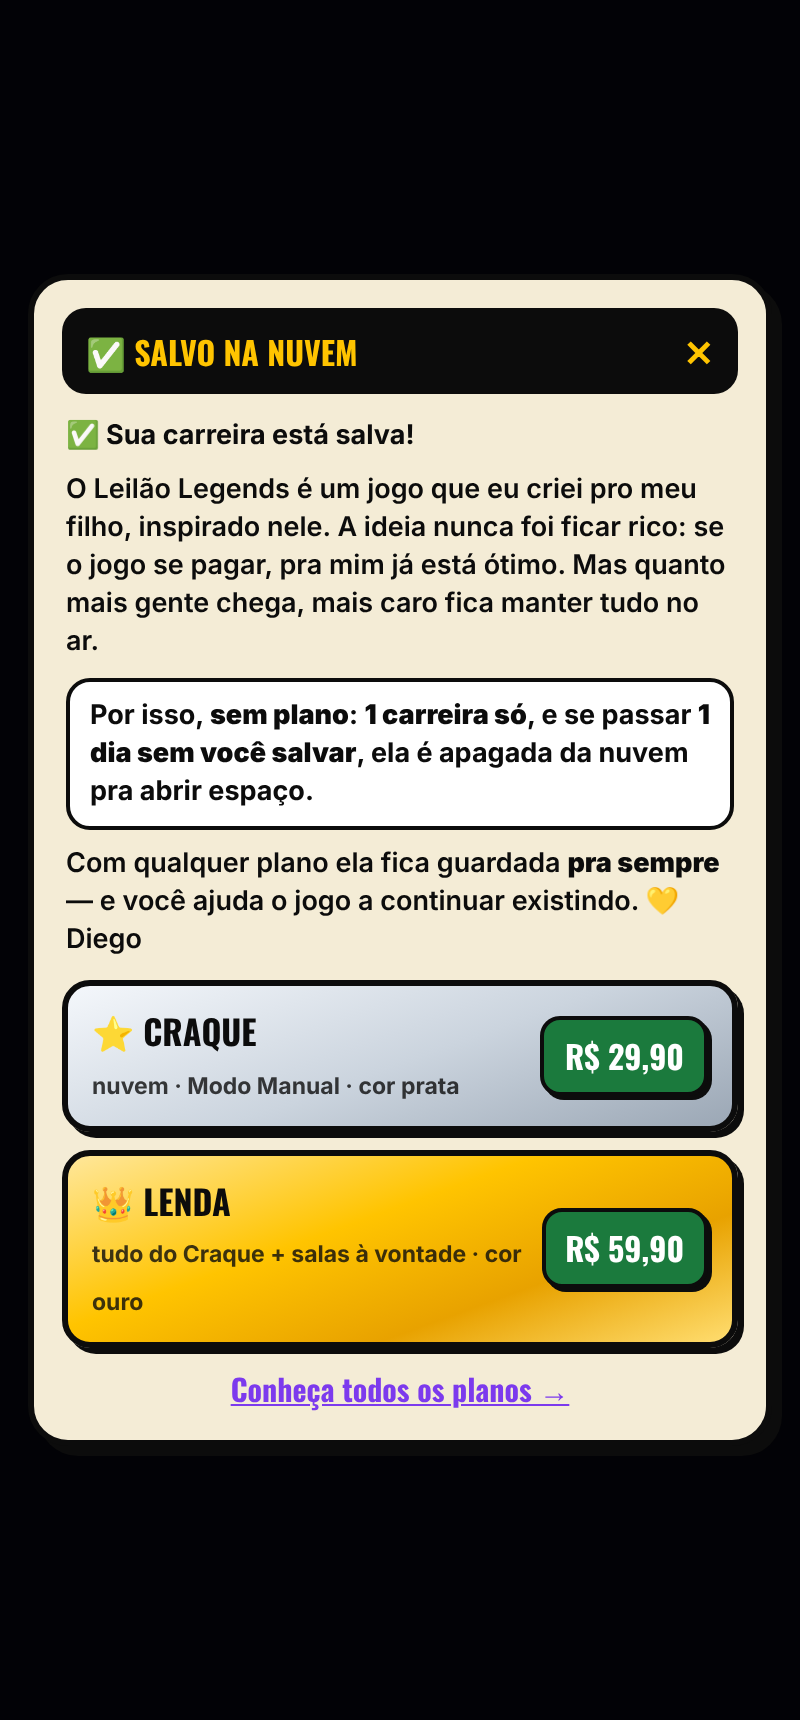
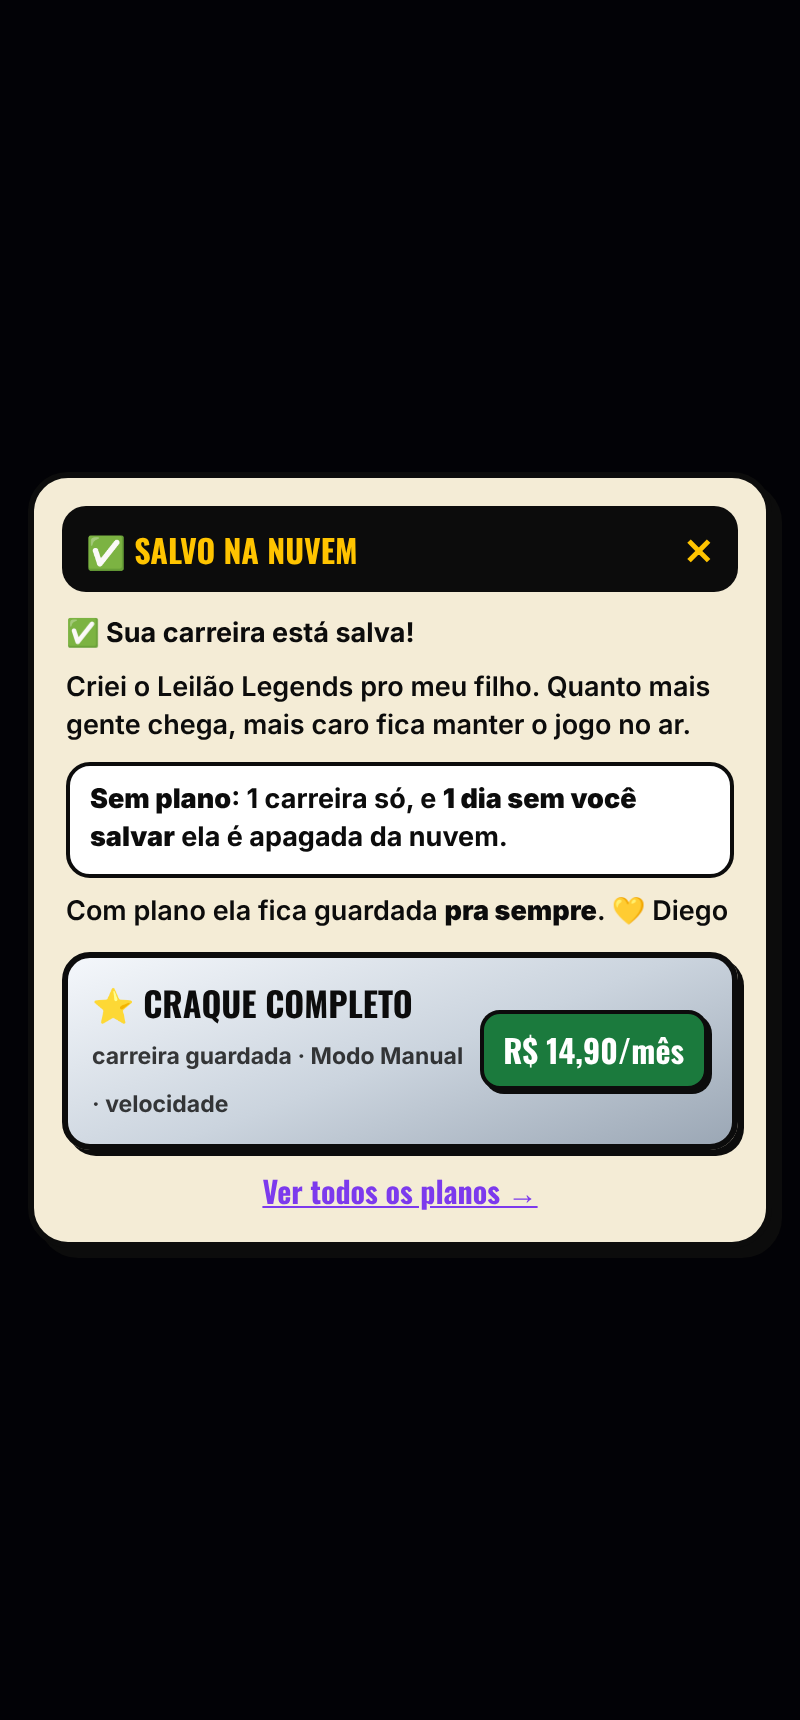
Aviso do 1º salvamento grátis: texto curto e só o Craque Completo + ver todos os planos
Claude-Session: https://claude.ai/code/session_012GPrTDbpvrApA6DArkzCpE

diff --git a/src/escalacao/nuvem-planos.tsx b/src/escalacao/nuvem-planos.tsx
@@ -7,7 +7,7 @@ import { useState } from 'react'
 import { createPortal } from 'react-dom'
 import { tr } from './lang'
 import { PixMP } from './pix-mp'
-import { PRECOS_UNICO } from './planos-regras'
+import { MENSAIS, PRECOS_UNICO } from './planos-regras'
 import { usePixMp } from './sport'
 import { logApoio } from './apoio'
 import { assinarMensal } from './vendria-checkout'
@@ -42,11 +42,11 @@ export function JanelaNuvemPlanos({ onClose, aviso7, travado }: { onClose: () =>
           <span>{travado ? <>🔒 {tr('SALVAR CARREIRA', 'SAVE CAREER')}</> : aviso7 ? <>✅ {tr('SALVO NA NUVEM', 'SAVED TO THE CLOUD')}</> : <>☁ {tr('SALVAR NA NUVEM', 'SAVE TO THE CLOUD')}</>}</span>
           <button onClick={onClose} aria-label={tr('Fechar', 'Close')} style={{ all: 'unset', cursor: 'pointer', color: GOLD, fontSize: 18 }}>✕</button>
         </div>
-        {aviso7 ? <div style={{ fontSize: 13.5, fontWeight: 700, margin: '12px 2px 10px', lineHeight: 1.4 }}>{/* 💛 07/11: a história do jogo, nas palavras do Diego */}
+        {aviso7 ? <div style={{ fontSize: 13.5, fontWeight: 700, margin: '12px 2px 10px', lineHeight: 1.4 }}>{/* 💛 07/11: a história do jogo, curta (Diego) */}
           <p style={{ margin: '0 0 8px' }}>{tr('✅ Sua carreira está salva!', '✅ Your career is saved!')}</p>
-          <p style={{ margin: '0 0 8px', fontWeight: 600 }}>{tr('O Leilão Legends é um jogo que eu criei pro meu filho, inspirado nele. A ideia nunca foi ficar rico: se o jogo se pagar, pra mim já está ótimo. Mas quanto mais gente chega, mais caro fica manter tudo no ar.', 'Leilão Legends is a game I made for my son, inspired by him. The idea was never to get rich: if the game pays for itself, that is already great for me. But the more people arrive, the more it costs to keep everything online.')}</p>
-          <p style={{ margin: '0 0 8px', background: '#fff', border: `2.5px solid ${INK}`, borderRadius: 12, padding: '8px 10px' }}>{tr('Por isso, ', 'So, ')}<b>{tr('sem plano', 'without a plan')}</b>{tr(': ', ': ')}<b>{tr('1 carreira só', 'only 1 career')}</b>{tr(', e se passar ', ', and if ')}<b>{tr('1 dia sem você salvar', '1 day goes by without you saving')}</b>{tr(', ela é apagada da nuvem pra abrir espaço.', ', it is deleted from the cloud to make room.')}</p>
-          <p style={{ margin: 0, fontWeight: 600 }}>{tr('Com qualquer plano ela fica guardada ', 'With any plan it stays saved ')}<b>{tr('pra sempre', 'forever')}</b>{tr(' — e você ajuda o jogo a continuar existindo. 💛 Diego', ' — and you help the game keep going. 💛 Diego')}</p>
+          <p style={{ margin: '0 0 8px', fontWeight: 600 }}>{tr('Criei o Leilão Legends pro meu filho. Quanto mais gente chega, mais caro fica manter o jogo no ar.', 'I made Leilão Legends for my son. The more people arrive, the more it costs to keep the game online.')}</p>
+          <p style={{ margin: '0 0 8px', background: '#fff', border: `2.5px solid ${INK}`, borderRadius: 12, padding: '8px 10px' }}><b>{tr('Sem plano', 'Without a plan')}</b>{tr(': 1 carreira só, e ', ': only 1 career, and ')}<b>{tr('1 dia sem você salvar', '1 day without you saving')}</b>{tr(' ela é apagada da nuvem.', ' it is deleted from the cloud.')}</p>
+          <p style={{ margin: 0, fontWeight: 600 }}>{tr('Com plano ela fica guardada ', 'With a plan it stays saved ')}<b>{tr('pra sempre', 'forever')}</b>{tr('. 💛 Diego', '. 💛 Diego')}</p>
         </div>
           : travado ? <>
             <p style={{ fontSize: 14, fontWeight: 700, margin: '12px 2px 10px', lineHeight: 1.35 }}>{tr('Sem plano, a carreira não fica salva. Escolha um plano e não perca nada do que você jogou:', 'Without a plan your career is not saved. Pick a plan and lose nothing you played:')}</p>
@@ -58,10 +58,16 @@ export function JanelaNuvemPlanos({ onClose, aviso7, travado }: { onClose: () =>
             </div>
           </>
           : <p style={{ fontSize: 14, fontWeight: 700, margin: '12px 2px 10px' }}>{tr('Pra salvar a sua carreira na nuvem, escolha um plano:', 'To save your career to the cloud, pick a plan:')}</p>}
+        {aviso7 ? <div style={{ marginBottom: 9 }}>{/* 07/11 (Diego): só o Craque Completo (é o que traz o Manual) e embaixo todos os planos */}
+          <button onClick={() => { logApoio('☁ 1º salvar grátis → Craque Completo (Vendria)'); void assinarMensal('craque_completo', tr) }} style={{ width: '100%', display: 'flex', justifyContent: 'space-between', alignItems: 'center', gap: 8, textAlign: 'left', border: `3px solid ${INK}`, borderRadius: 14, padding: '10px 12px', background: 'linear-gradient(160deg,#F4F7FB,#CBD4DE 52%,#9BA7B5)', boxShadow: `3px 3px 0 ${INK}`, cursor: 'pointer', color: INK }}>
+            <span><b style={{ ...OSW, fontSize: 17, display: 'block', textTransform: 'uppercase' }}>{tr('⭐ Craque Completo', '⭐ Craque Completo')}</b><small style={{ fontSize: 11.5, fontWeight: 700, opacity: .8 }}>{tr('carreira guardada · Modo Manual · velocidade', 'career kept · Manual Mode · speed')}</small></span>
+            <span style={{ ...OSW, fontSize: 16, background: GREEN, color: '#fff', border: `2px solid ${INK}`, borderRadius: 10, padding: '6px 10px', boxShadow: `2px 2px 0 ${INK}`, whiteSpace: 'nowrap' }}>R$ {MENSAIS.craque_completo.preco.toFixed(2).replace('.', ',')}{tr('/mês', '/mo')}</span>
+          </button>
+        </div> : <>
         <Plano p="craque" nome={tr('⭐ Craque', '⭐ Star')} sub={tr('nuvem · Modo Manual · cor prata', 'cloud · Manual Mode · silver colour')} grad="linear-gradient(160deg,#F4F7FB,#CBD4DE 52%,#9BA7B5)" />
-        <Plano p="lenda" nome={tr('👑 Lenda', '👑 Legend')} sub={tr('tudo do Craque + salas à vontade · cor ouro', 'everything in Star + unlimited rooms · gold colour')} grad="linear-gradient(160deg,#FFE79A,#FFC400 40%,#E8A200 70%,#FFDD70)" />
+        <Plano p="lenda" nome={tr('👑 Lenda', '👑 Legend')} sub={tr('tudo do Craque + salas à vontade · cor ouro', 'everything in Star + unlimited rooms · gold colour')} grad="linear-gradient(160deg,#FFE79A,#FFC400 40%,#E8A200 70%,#FFDD70)" /></>}
         <button onClick={() => { logApoio('☁ salvar sem plano → todos os planos'); abre('nuvem') }} style={{ all: 'unset', display: 'block', width: '100%', textAlign: 'center', cursor: 'pointer', ...OSW, fontSize: 15, color: ROXO, textDecoration: 'underline', marginTop: 4 }}>
-          {tr('Conheça todos os planos →', 'See all the plans →')}
+          {aviso7 ? tr('Ver todos os planos →', 'See all the plans →') : tr('Conheça todos os planos →', 'See all the plans →')}
         </button>
       </div>
     </div>,

diff --git a/docs/pendencias.md b/docs/pendencias.md
@@ -11,7 +11,7 @@
 ## 💾 07/11 — Grátis volta a SALVAR + 2D grátis na carreira + carreira a 1,5× (branch, esperando "publica" e OK da foto)
 - Diego: *"acho que a gente tem que liberar novamente salvar… ficou um dia sem jogar, quem não tem plano pode apagar o save… só tem direito
   a um save… o campo 2D liberado… botão manual continuar com a travinha… no modo carreira deixa 1,5"*. REVOGA o "sem plano não salva" de 04/11.
-- Feito no código: `SALVAR_SO_COM_PLANO = false`; 1º salvamento sem plano abre o aviso com a história do jogo (o filho, "se o jogo se pagar já
+- Feito no código: `SALVAR_SO_COM_PLANO = false`; 1º salvamento sem plano abre o aviso CURTO (o filho, "mais gente = mais caro"; sem falar de "ficar rico", ordem dele) só com o ⭐ Craque Completo (14,90/mês, é o que tem o Manual) + "Ver todos os planos" (antes: "se o jogo se pagar já
   tá ótimo", 1 carreira só, 1 dia sem salvar = apagada da nuvem) + planos — foto `scripts/mockups/salvar-gratis-aviso.png`, fecha uma vez
   (`nuvem-1d`); 2D grátis na CARREIRA (`useCampo2DLigado`/`Botao2D` com `careerOnline`; o cadeado vira só do Manual; Partida Rápida segue
   paga); 2D da carreira padrão **1,5×** (`VEL2D_CARREIRA_PADRAO`), sem Manual cravado em 1,5× (`vel2dDoContexto`).
